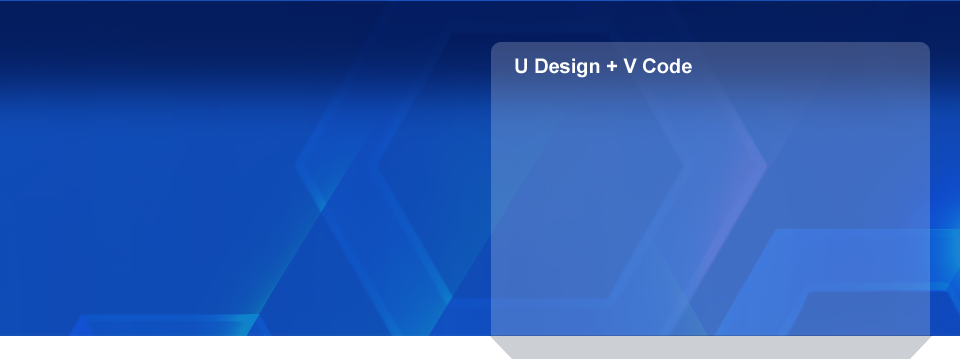
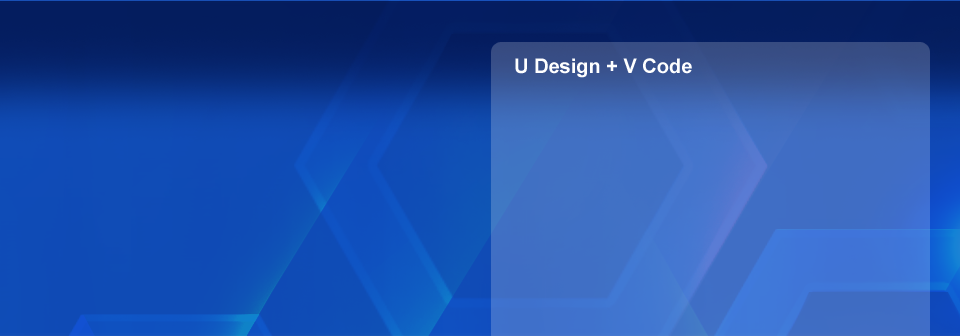
сделала блюрбо

diff --git a/style.css b/style.css
@@ -81,7 +81,7 @@ nav li.current a{
 
  .slider-block{
     background: url(img/bg-slider-block.png)no-repeat 0 0;
-    height: 332px;
+    height: 251px;
     padding: 85px 50px 0;
     color: #fff;
     font-size: 29px;
@@ -98,8 +98,7 @@ nav li.current a{
 }
 
 .started{
-    background: url(img/arrowStarted.png) no-repeat 95% 60%,
-                url(img/bg-stated.gif) repeat-x 0 0; 
+    background: url(img/bg-stated.gif) repeat-x 0 0;
     font-size: 20px;
     font-weight: bold;
     text-transform: uppercase;
@@ -110,6 +109,52 @@ nav li.current a{
     -webkit-border-radius:10px;
     border-radius: 10px;
 }
+
+.started:hover{
+    background: url(img/arrowStarted.png) no-repeat 95% 60%,
+                url(img/bg-stated.gif) repeat-x 0 0; 
+}
+
+.blurbo{
+    background-color: #cccccc;
+    padding: 35px 0 22px 50px;
+    border-bottom: 2px solid #999797;
+}
+
+.blurbo li{
+    float: left;
+    padding: 12px 0 12px 90px;
+    width: 150px;
+    margin-right: 75px;
+}
+
+.blurbo li:last-child{
+    margin-right: 0;
+}
+
+.blurbo h3{
+    font-size: 15px;
+    color: #575757;
+}
+
+.blurbo:after{
+    content: '';
+    display: table;
+    clear: both;
+}
+
+.blurbo li.money{
+    background: url(img/bg-money.png) no-repeat 0 50%;
+}
+
+.blurbo li.clock{
+    background: url(img/bg-clock.png) no-repeat 0 50%;
+}
+
+.blurbo li.contact{
+    background: url(img/bg-contact.png) no-repeat 0 50%;
+}
+
 
                             /*slider*/
 .flexslider {

diff --git a/index.html b/index.html
@@ -26,10 +26,11 @@
         <div class="slider-block">
             <div class="flexslider">
                 <ul class="slides">
+                    <li><img src="img/1.jpg" alt="1"></li>
                     <li><img src="img/2.jpg" alt="2"></li>
                     <li><img src="img/3.jpg" alt="3"></li>
                     <li><img src="img/4.jpg" alt="4"></li>
-                    <li><img src="img/" alt=""></li>
+                    
                 </ul>
             </div>
             <p>We have what it takes to</br> 
@@ -37,6 +38,23 @@
             <p class="fs35">new height of success</p>
             <a href="index.html" class="started">get started here</a>
         </div>
+        <ul class="blurbo">
+            <li class="money">
+                <h3>Save big with us</h3>
+                <p>Lorem ipsum dolor sit amet,</br> 
+                   consectetur adipiscing elit.</p>
+            </li>
+            <li class="clock">
+                <h3>Always on time</h3>
+                <p>Lorem ipsum dolor sit amet,</br> 
+                   consectetur adipiscing elit.</p>
+            </li>
+            <li class="contact">
+                <h3>Contact Us</h3>
+                <p>Lorem ipsum dolor sit amet,</br> 
+                   consectetur adipiscing elit.</p>
+            </li>
+        </ul>
     </div>
 </body>
 </html>
